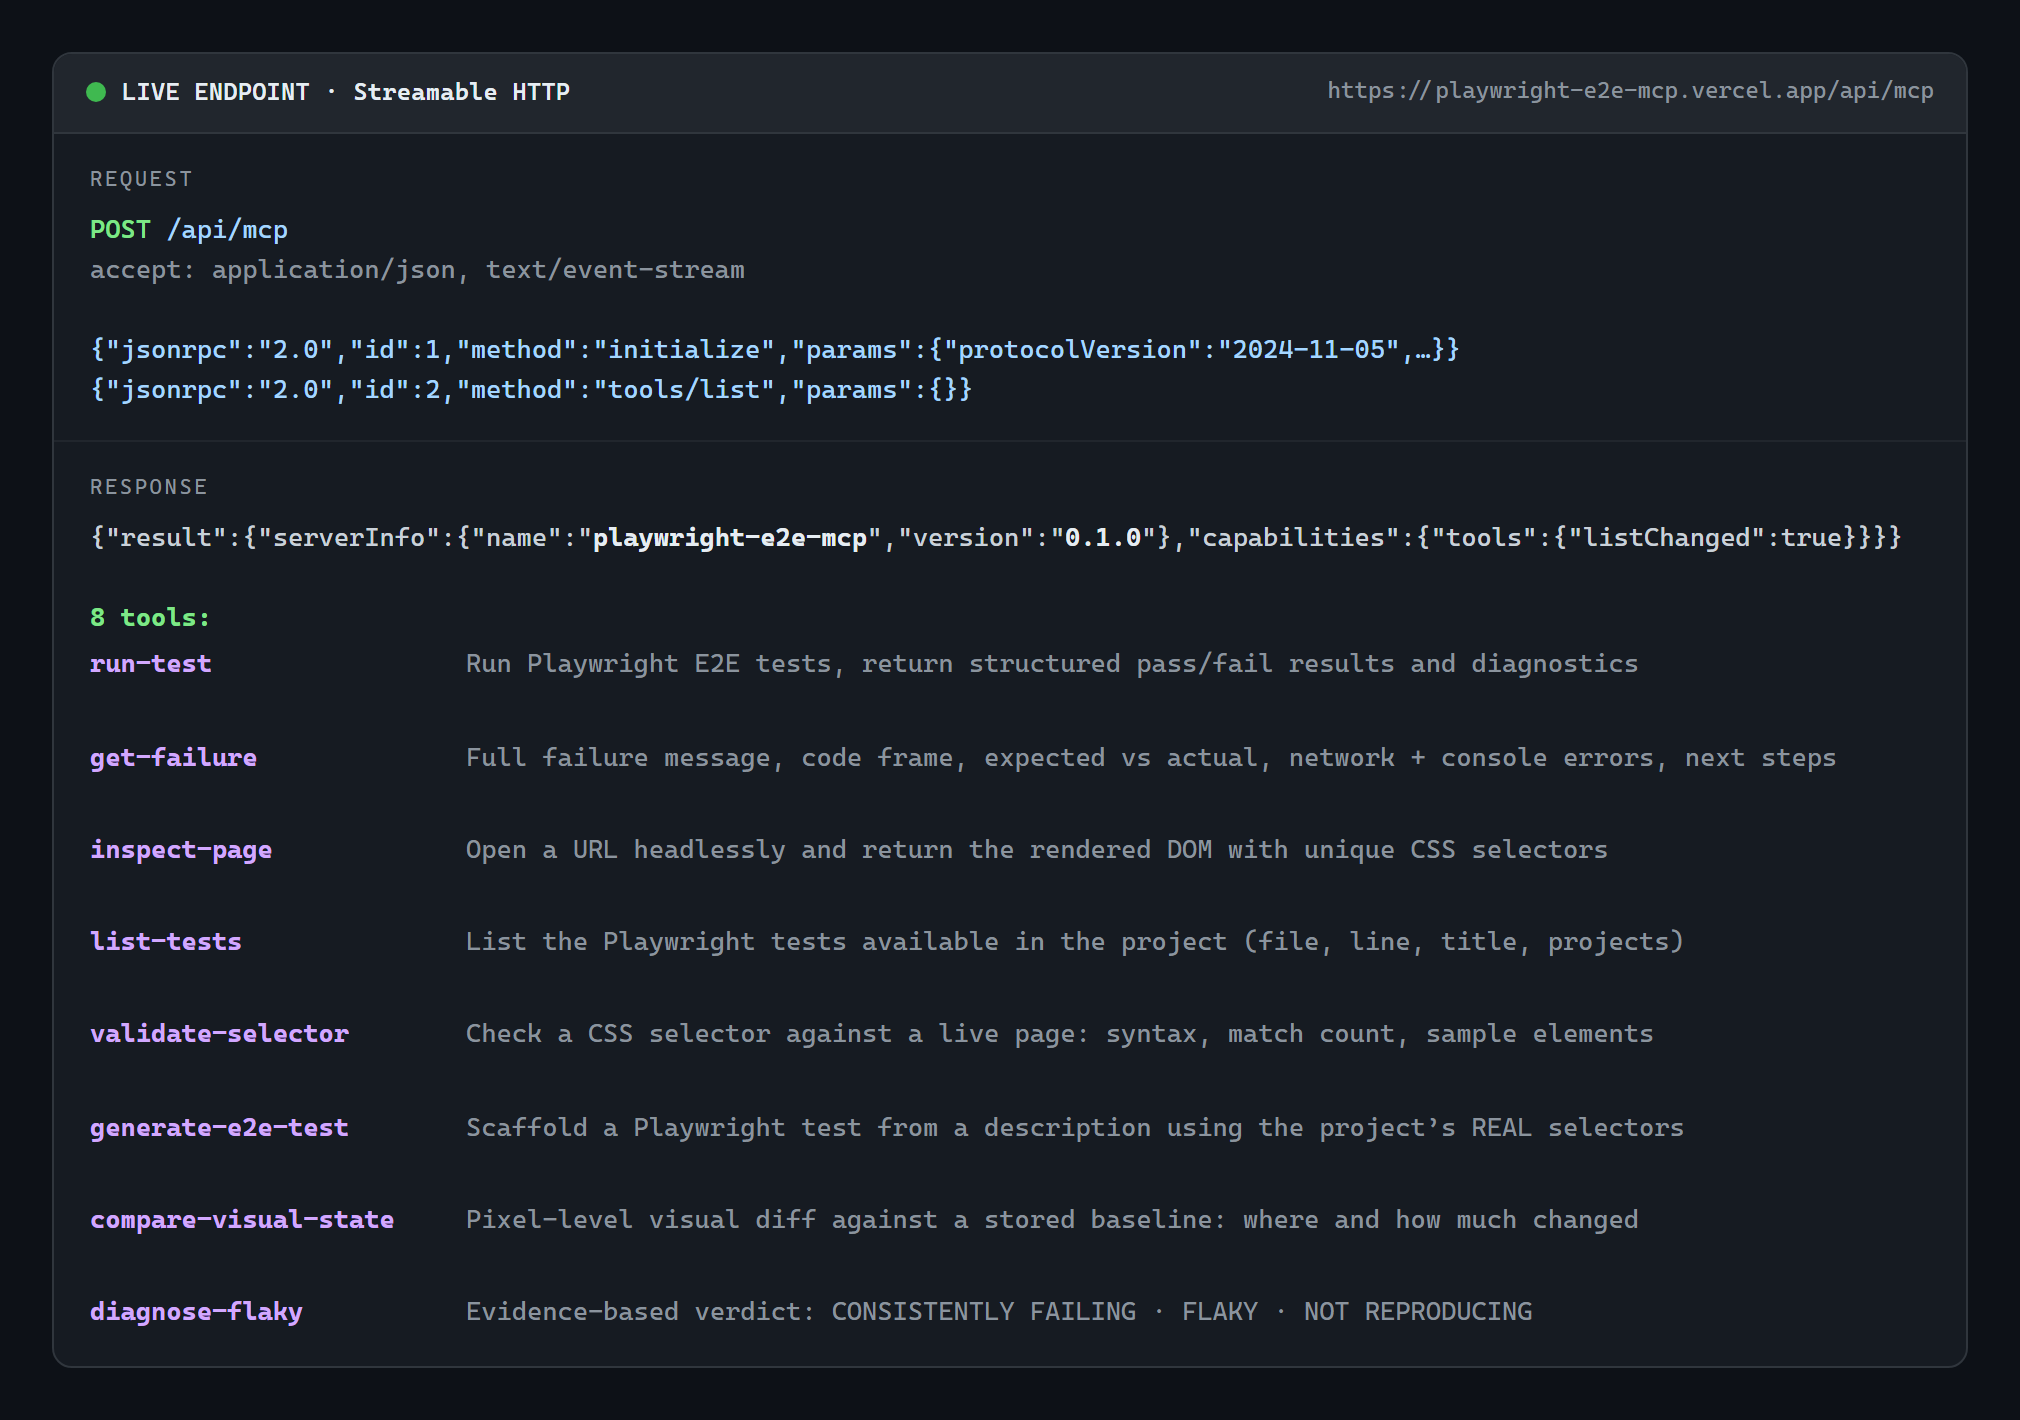
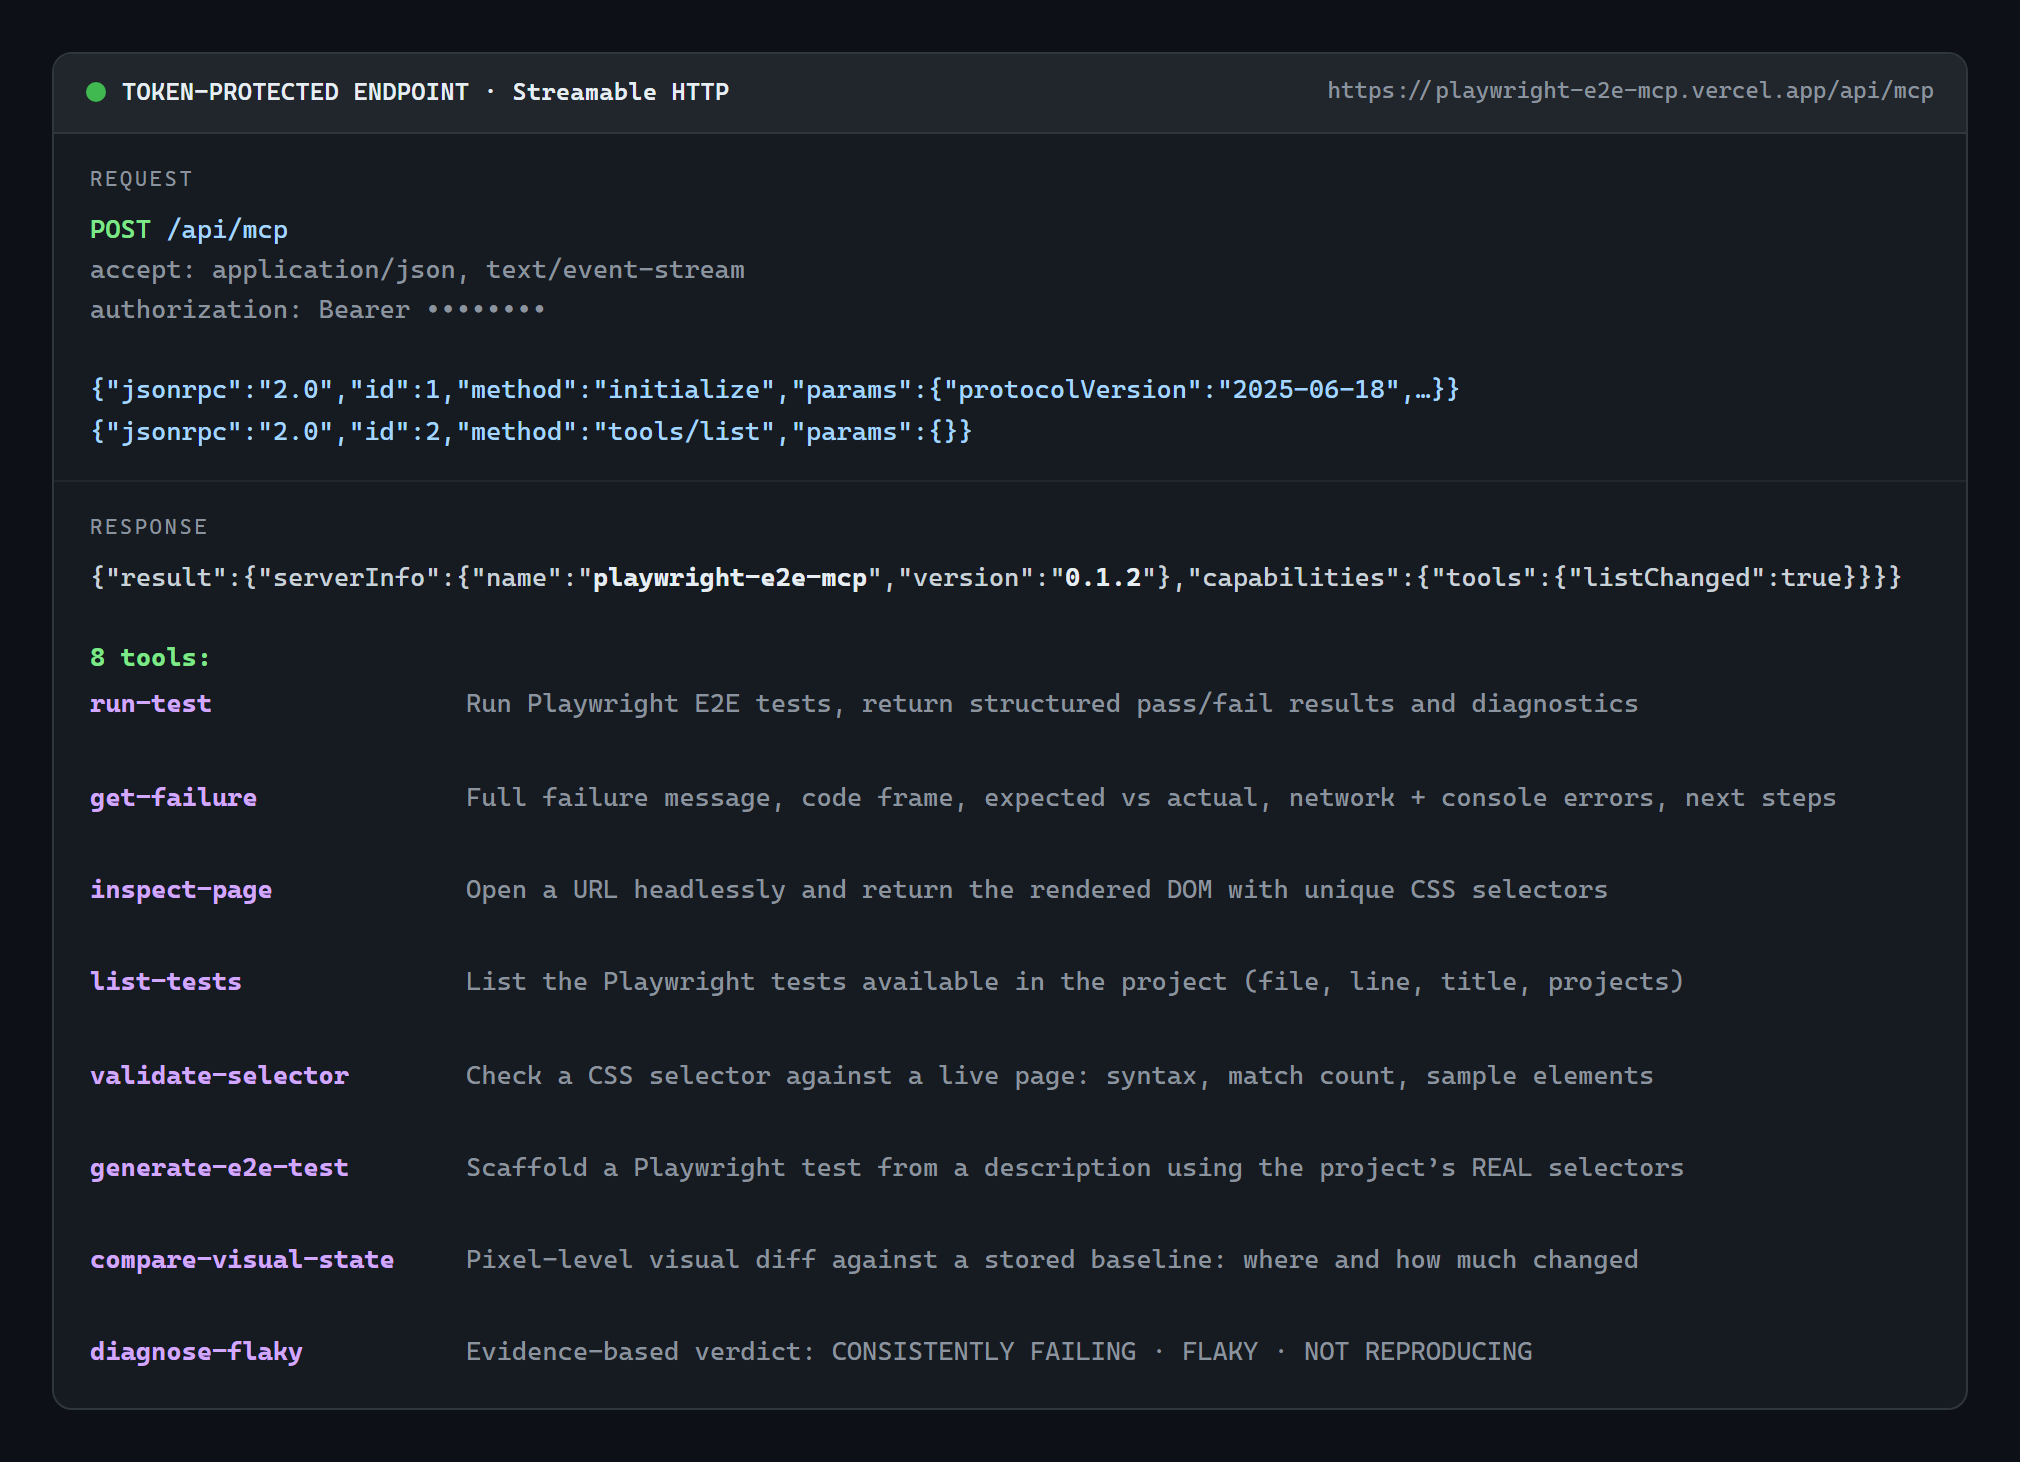
Refresh the demo screenshot and stop pointing installers at a dead deploy token
The README demo card now shows the token-protected endpoint listing, and the
regenerator keeps its scratch page in the OS temp dir so it no longer leaves
a stray .demo-page.html in the repo. The deploy instruction described a
`vercel deploy --token=` step whose token no longer works; deploys now happen
through Vercel's Git integration on push to main.

🤖 Generated with Codebuff

diff --git a/README.md b/README.md
@@ -396,11 +396,9 @@ curl -X POST https://playwright-e2e-mcp.vercel.app/api/mcp \
   -d '{"jsonrpc":"2.0","id":1,"method":"initialize","params":{"protocolVersion":"2025-06-18","capabilities":{},"clientInfo":{"name":"curl","version":"1.0"}}}'
 ```
 
-Redeploy after a change:
-
-```bash
-npx vercel deploy --yes --prod --token="$VERCEL_TOKEN"
-```
+Redeploy after a change: merge to `main`. Vercel's Git integration deploys
+every push, so there is no token to manage and no CLI step — watch the
+`Vercel` commit status for the deployment result.
 
 ## Configuration
 
